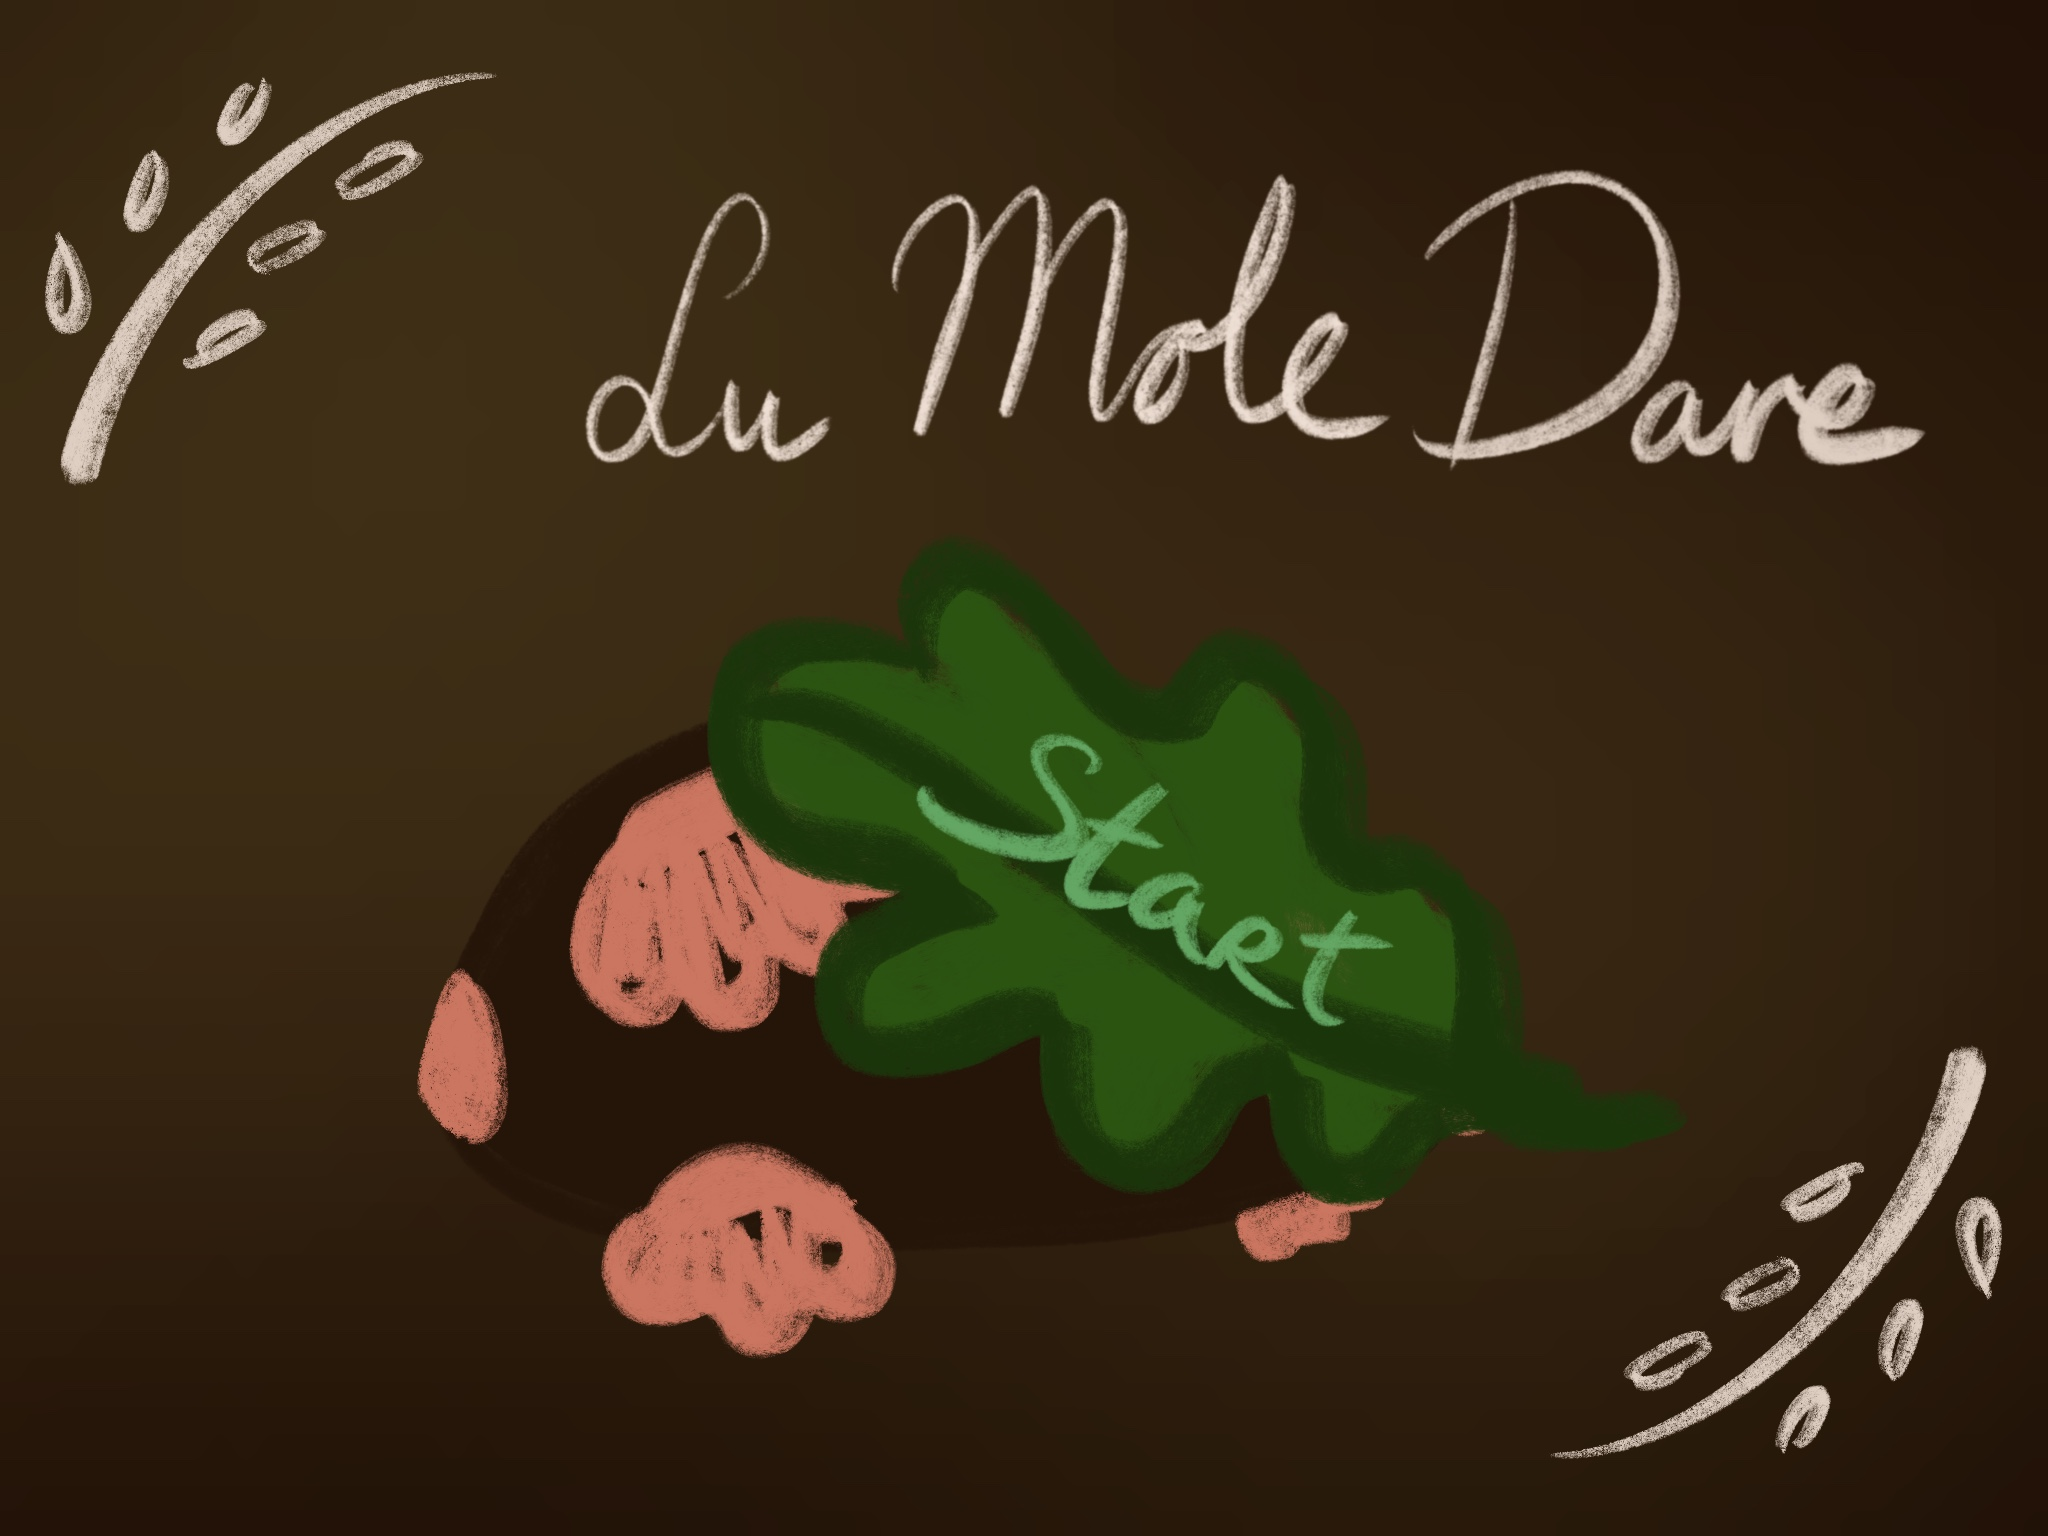
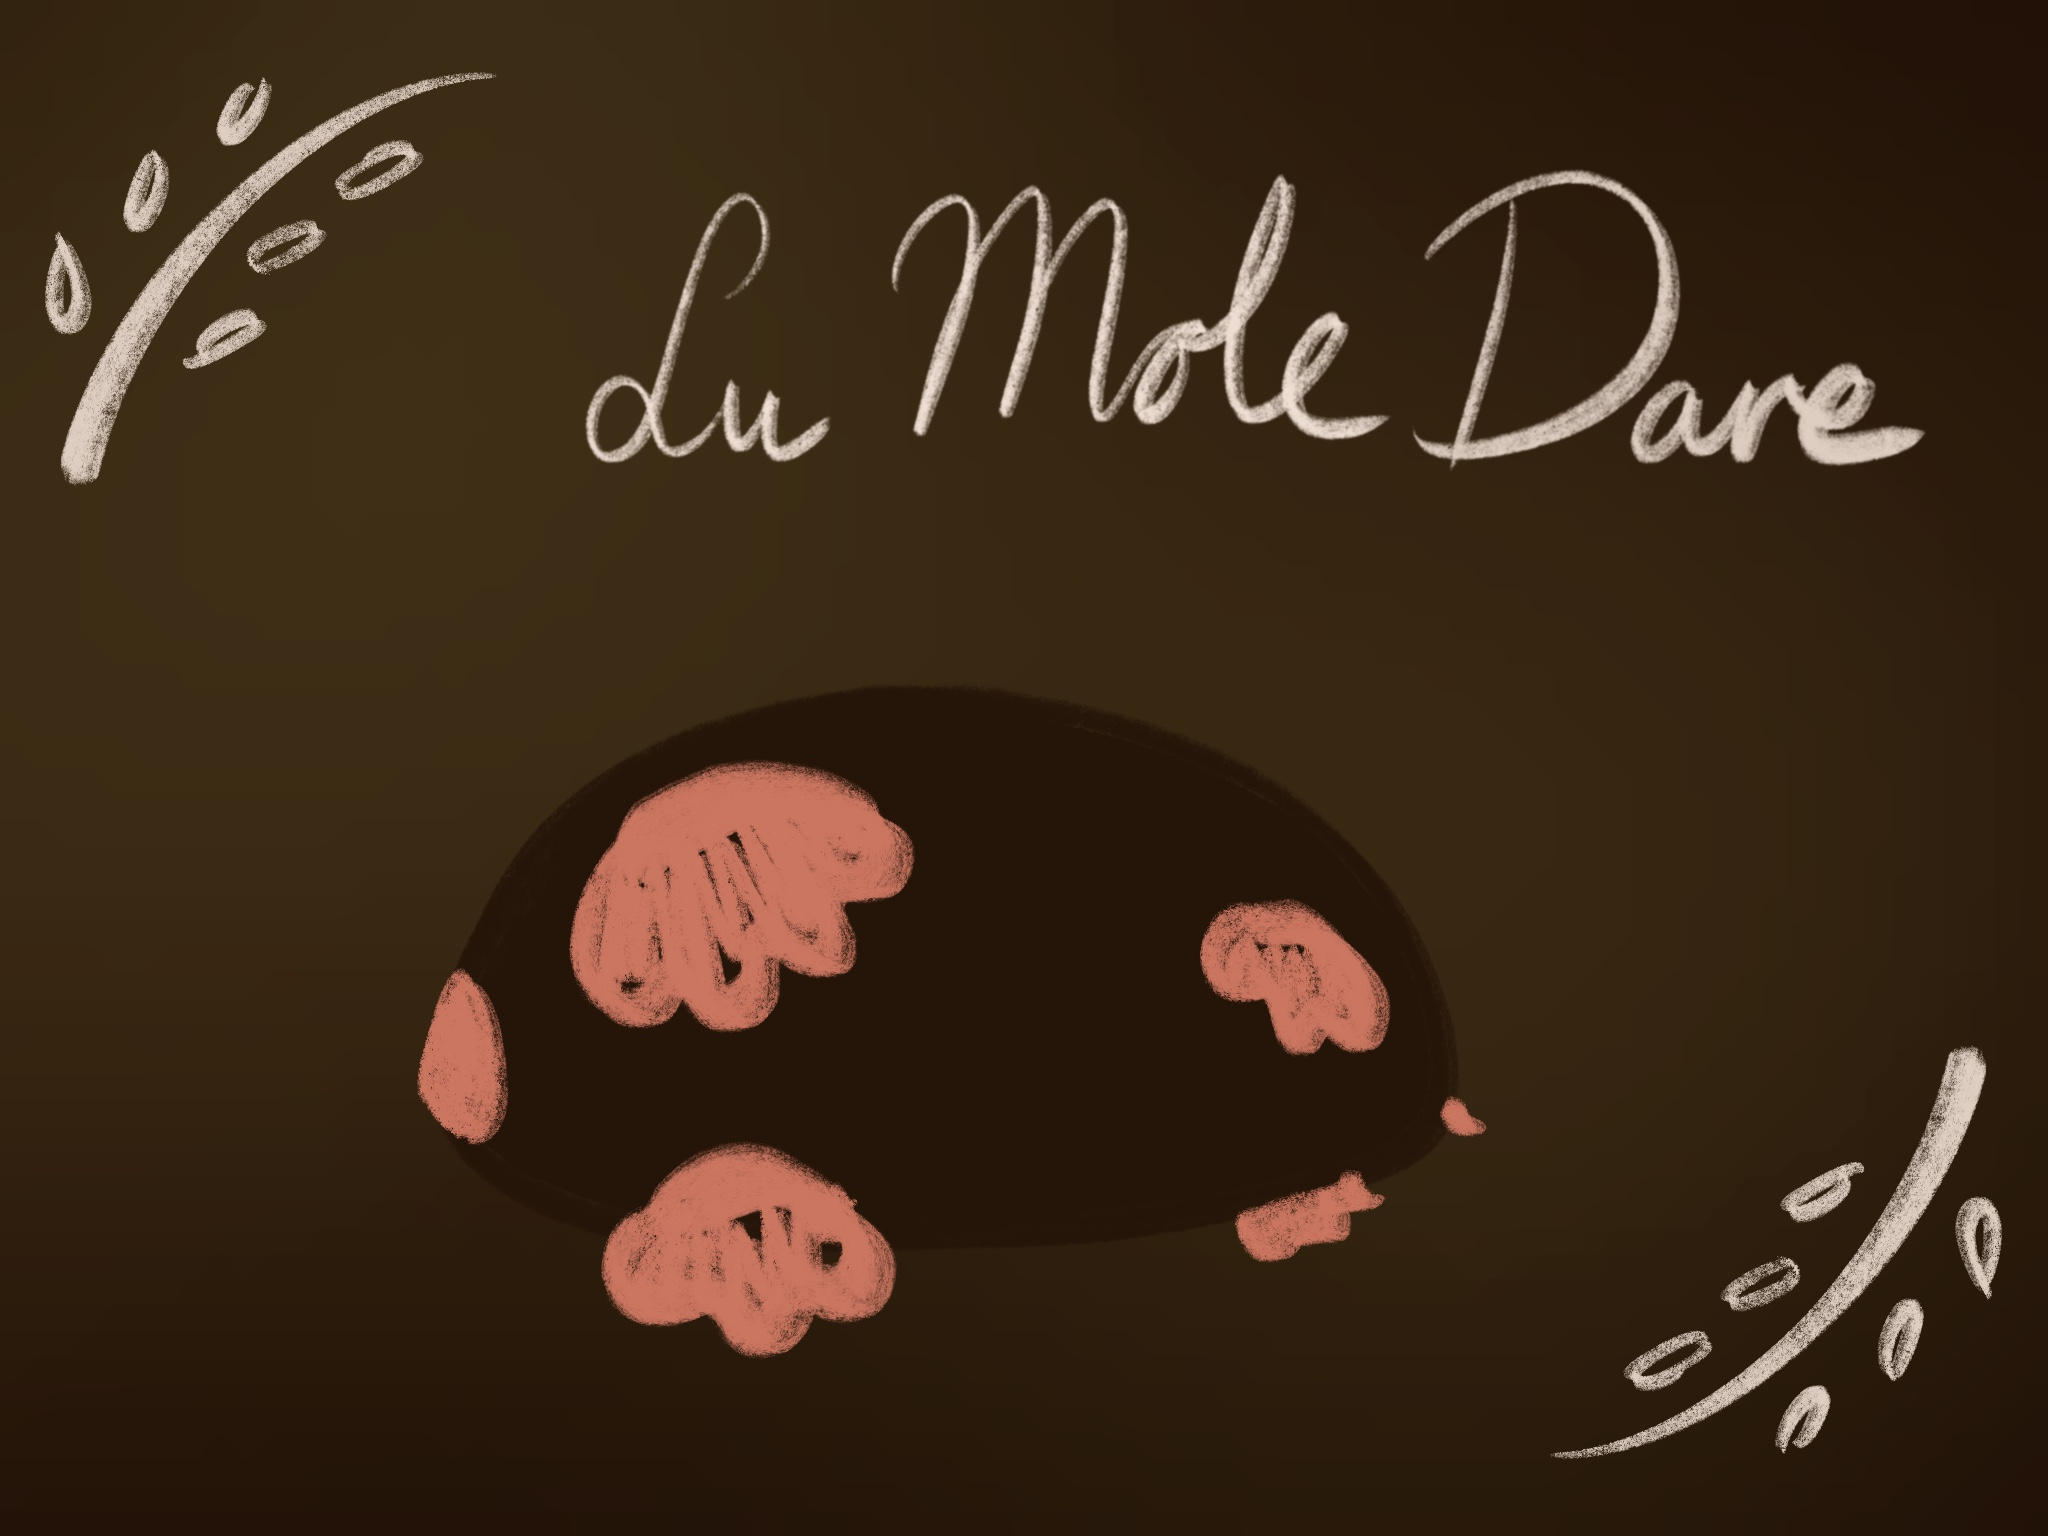
img + start

Changed region(s): [[0.3438, 0.3438, 0.8125, 0.7812]]

diff --git a/style/style.css b/style/style.css
@@ -23,6 +23,7 @@ body {
 }
 
 .background {
+  position: relative;
   margin-top: 2%;
   width: auto;
   height: 100vh;
@@ -30,5 +31,22 @@ body {
 
 .background img {
   height: 80%;
+}
+
+.background a img {
+  position: absolute;
+  z-index: 10;
+  top: 25%;
+  left: 35%;
+  width: 50%;
+  height: auto;
+  cursor: pointer;
+  -webkit-transition: ease-in-out 2s;
+  transition: ease-in-out 2s;
+}
+
+.background a img:hover {
+  -webkit-transform: rotate(10deg);
+          transform: rotate(10deg);
 }
 /*# sourceMappingURL=style.css.map */

diff --git a/style/_start.scss b/style/_start.scss
@@ -13,10 +13,23 @@ body {
     
 }
     .background {
+        position: relative;
         margin-top: 2%;
         width: auto;
         height: 100vh;
     img{
        height: 80%;
     }
+    a img {
+        position: absolute;
+        z-index: 10;
+        top: 25%;
+        left: 35%;
+        width: 50%;
+        height: auto;
+        cursor: pointer;
+        transition: ease-in-out 2s;
+    &:hover{
+        transform: rotate(10deg);
+    }}
 }

diff --git a/Html/start.html b/Html/start.html
@@ -10,6 +10,9 @@
 <body>
     <div class="background">
     <img src="../img/Start.JPG" />
+    <a href="./Landingpage.html"><img src="../img/StartBtn.PNG" /></a>
 </div>
+
+
 </body>
 </html>
